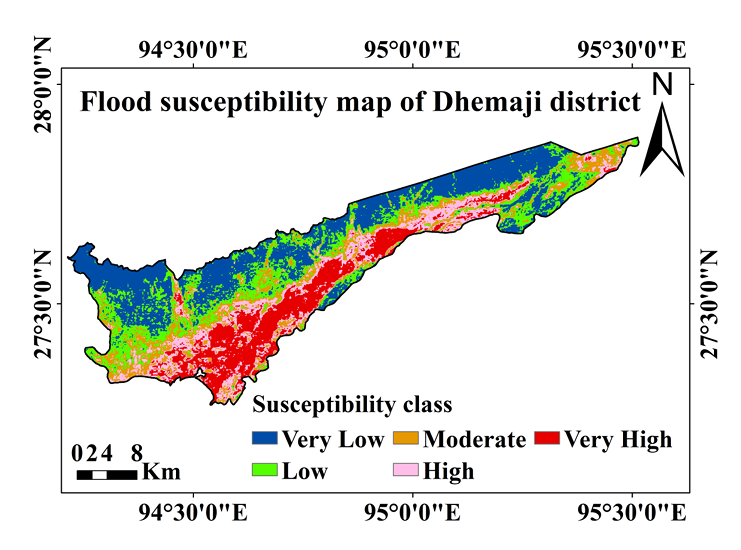
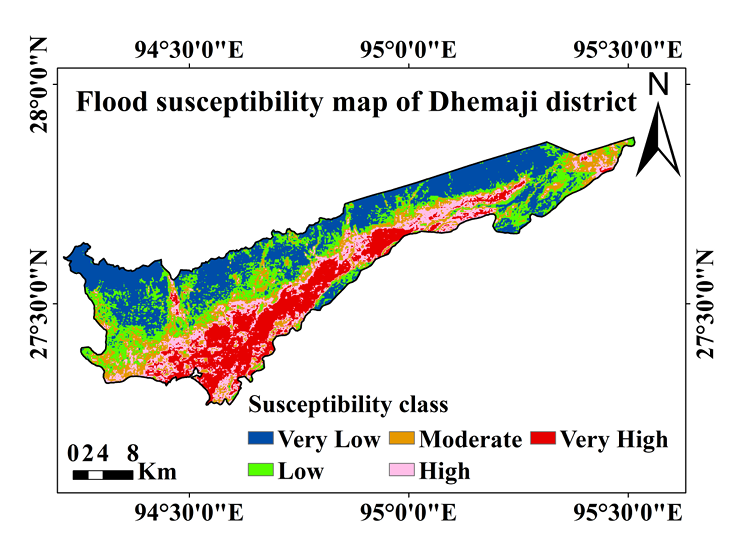
Added Publication 2 and 3

diff --git a/index.html b/index.html
@@ -211,6 +211,41 @@
                 Here are some of my research publications and papers.
             </p>   
             <div class="portfolios">
+                
+                <div class="portfolio-item">
+                    <div class="image">
+                        <img src="img/Publication3.png" alt="Publication Title">
+                    </div>
+                    <div class="hover-items">
+                        <h3>Read Article! </h3>
+                        <div class="icons">
+                            <a href="https://dx.doi.org/10.2139/ssrn.5917277" target="_blank" class="icon">
+                                <i class="fas fa-external-link-alt"></i>
+                            </a>
+                        </div>
+                    </div>
+                    <div class="publication-title">
+                        <h4>Performance of GSMaP-ISRO Across Indian Climate Zones: Through a Novel Multi-Triplet Collocation approach</h4>
+                    </div>
+                </div>
+
+                <div class="portfolio-item">
+                    <div class="image">
+                        <img src="img/Publication2.jpg" alt="Publication Title">
+                    </div>
+                    <div class="hover-items">
+                        <h3>Read Article! </h3>
+                        <div class="icons">
+                            <a href="https://doi.org/10.1016/j.asoc.2025.113406" target="_blank" class="icon">
+                                <i class="fas fa-external-link-alt"></i>
+                            </a>
+                        </div>
+                    </div>
+                    <div class="publication-title">
+                        <h4>Enhancing soil moisture prediction with explainable AI: Integrating IoT and multi-sensor remote sensing data through soft computing</h4>
+                    </div>
+                </div>
+
                 <div class="portfolio-item">
                     <div class="image">
                         <img src="img/Publication1.png" alt="Publication Title">
@@ -227,7 +262,10 @@
                         <h4>Flood Susceptibility mapping leveraging explainable AI and GIS techniques</h4>
                     </div>
                 </div>
+
             </div>
+
+            
         </section>
 
         <!-- ============================================================

diff --git a/styles/styles.css b/styles/styles.css
@@ -15,7 +15,7 @@
   --color-grey-2: #ffffff;
   --color-grey-3: #25c6d128;
   --color-grey-4: #000000;
-  --color-grey-5: #25c6d128;
+  --color-grey-5: #25c6d131;
   --color-grey-6: #000000;
   --br-sm-2: 14px;
   --box-shadow-1: 0 3px 15px rgba(0,0,0,.3);